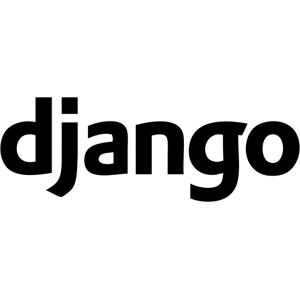
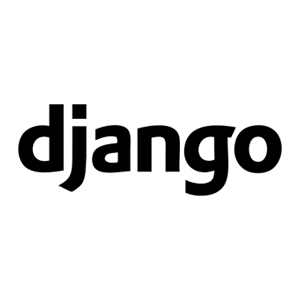
Put Tech Images in Thumbnails

Changed region(s): [[0.0, 0.3, 1.0, 0.69]]

diff --git a/dashboard.html b/dashboard.html
@@ -143,7 +143,7 @@
                               <div class="panel panel-default">
                                 <div class="panel-heading python clickable" data-toggle="collapse" href="#showCard" data-parent="#accordion">
                                     <button type="button" class="close" data-toggle="modal" data-target="#myModal"><span aria-hidden="true">×</span></button>
-                                    <img class="tech-icon" src="images/tech/python.png"/> 
+                                    <img class="tech-icon img-thumbnail hidden-xs" src="images/tech/python.png"/>
                                     <h1 class="card-heading">Python Fundamentals </h1>                                
                                 </div>
                                 <div class="collapse in" id="showCard">
@@ -179,7 +179,7 @@
                               <div class="panel panel-default">
                                 <div class="panel-heading python clickable" data-toggle="collapse" href="#showCard1" data-parent="#accordion">
                                     <button data-toggle="modal" data-target="#myModal" type="button" class="close"><span aria-hidden="true">×</span></button>
-                                    <img class="tech-icon" src="images/tech/python.png"/>
+                                    <img class="tech-icon img-thumbnail hidden-xs" src="images/tech/python.png"/> 
                                     <h1 class="card-heading">High Performance Python</h1>
                                 </div>
                                 <div class="collapse" id="showCard1">
@@ -212,7 +212,7 @@
                               <div class="panel panel-default">
                                 <div class="panel-heading django clickable " data-toggle="collapse" href="#showCard2" data-parent="#accordion">
                                     <button data-toggle="modal" data-target="#myModal" type="button" class="close"><span aria-hidden="true">×</span></button>
-                                    <img class="tech-icon" src="images/tech/django.png"/>
+                                    <img class="tech-icon img-thumbnail hidden-xs" src="images/tech/django.png"/> 
                                     <h1 class="card-heading">Production Ready Django</h1>
                                 </div>
                                 <div class="collapse" id="showCard2">
